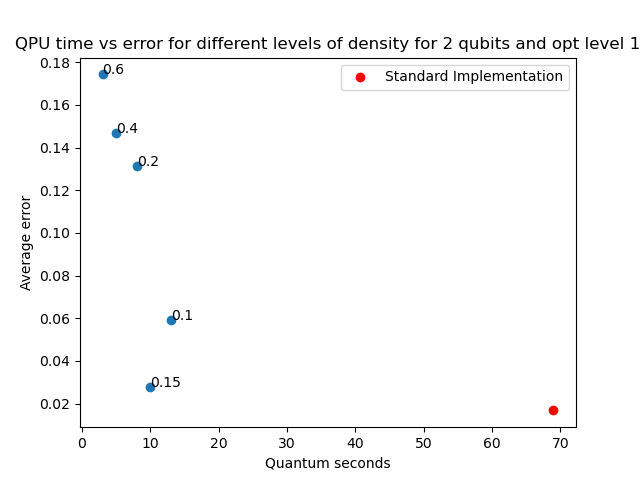
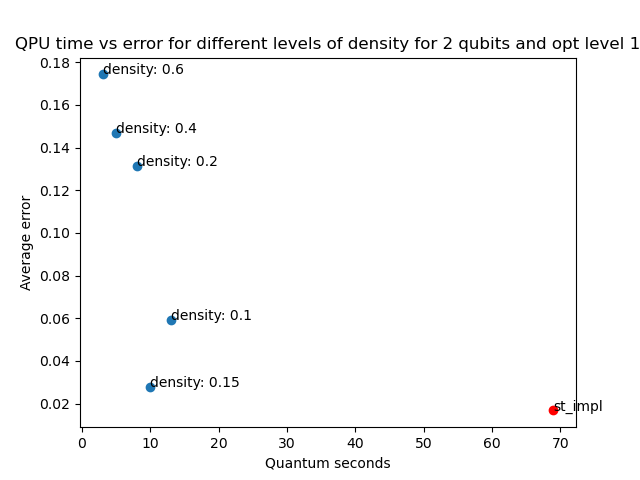
testing_density_plot_corrections

diff --git a/Code/process_and_plot_test_results.py b/Code/process_and_plot_test_results.py
@@ -52,7 +52,7 @@ for number_of_qubits in params['number_of_qubits']:
         fig, ax = plt.subplots()
         ax.scatter(quantum_seconds, average_errors)
         for i, txt in enumerate(densities):
-            ax.annotate(txt, (quantum_seconds[i], average_errors[i]))
+            ax.annotate(f"density: {txt}", (quantum_seconds[i], average_errors[i]))
 
         #add one red dot corresponding to quantum seconds and average error for the standard implementation
         # Load the standard implementation metrics file
@@ -66,12 +66,13 @@ for number_of_qubits in params['number_of_qubits']:
                     standard_average_error = float(line.split(': ')[1])
         
         # Add the red dot
-        ax.scatter(standard_quantum_seconds, standard_average_error, color='red', label='Standard Implementation')
+        ax.scatter(standard_quantum_seconds, standard_average_error, color='red')
+        ax.annotate(f"st_impl", (standard_quantum_seconds, standard_average_error))
 
         plt.xlabel('Quantum seconds')
         plt.ylabel('Average error')
         plt.title(f'QPU time vs error for different levels of density for {number_of_qubits} qubits and opt level {optimization_level}')
-        plt.legend()
+        
         
         #save figure to file
         plt.savefig(f'{output_path}{number_of_qubits}_qubits/opt_{optimization_level}/{number_of_qubits}_qubits_opt_{optimization_level}_scatter_plot.png')
